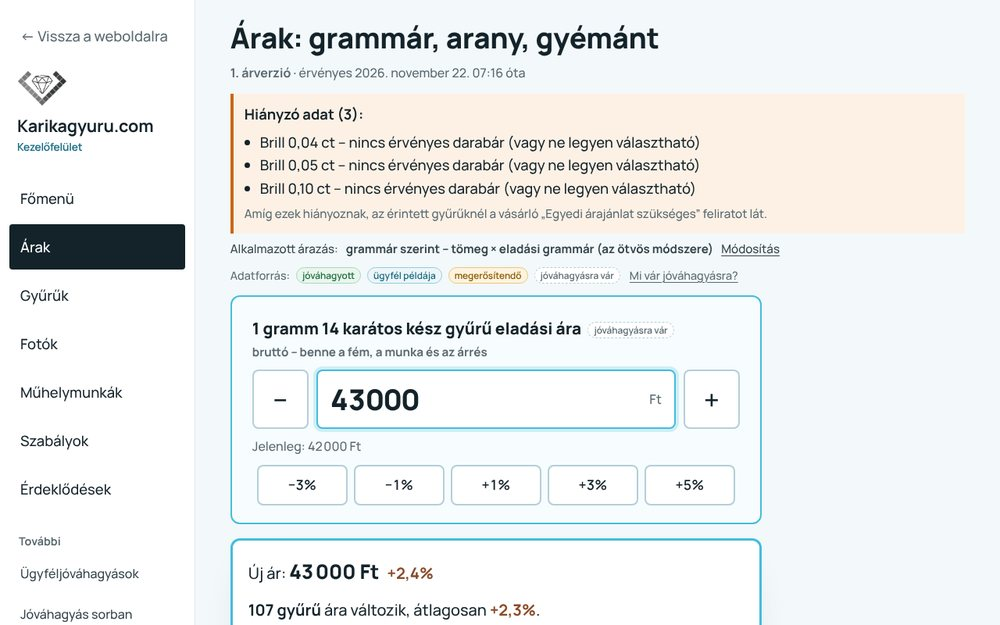
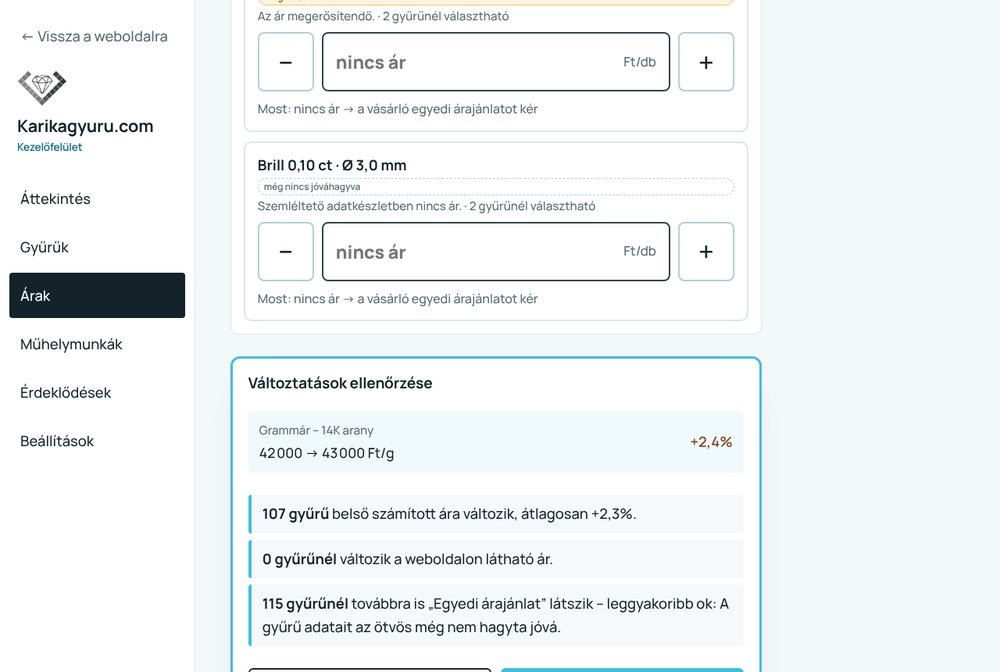
Karikagyuru V5.9/4: dokumentáció és ügyfélbemutató
- új: ADMIN_FELMERES_V5_9.md (oldalankénti felmérés), ADMIN_UTMUTATO.md (az ötvösnek), TAVOLI_BEMUTATO.md (VPS, HTTPS)
- frissítve: ELSO_ATADAS, BIZTONSAG, TELEPITES 15. pont, BEMUTATO_TELEPITES (nincs éjjeli automatikus törlés), ATADAS, README-k
- bemutato.html: az új admin szerint (az ügyféljóváhagyási oldal helyett: a kérdéseket mi kérdezzük meg), új képernyőkép

Claude-Session: https://claude.ai/code/session_01JvnLNWMeRt4DEzms3zgSZ4

diff --git a/public/latvanytervek/karikagyuru/bemutato.html b/public/latvanytervek/karikagyuru/bemutato.html
@@ -127,11 +127,11 @@ footer { padding: 26px 0 40px; color: var(--mute); font-size: 1rem; }
     <h2><span class="n">3</span>Az árak egy helyen</h2>
     <p>Az árakat az Ön módszerével számolja: <b>a gyűrű súlya × a gramm ára</b>, plusz a kövek. Önnek csak a gramm árát kell átírnia, ha változik az arany ára.</p>
     <ul class="plain">
-      <li><b>Mentés előtt</b> megmutatja, hány gyűrű ára változik, és mennyivel.</li>
-      <li><b>Minden változás megmarad.</b> Ha tévedett, egy gombbal visszaállítja az előző árakat.</li>
+      <li><b>Mentés előtt</b> megmutatja, mi változik: melyik ár, mennyiről mennyire, és hány gyűrűnél változik a weboldalon látható ár.</li>
+      <li><b>Minden változás megmarad.</b> Ha tévedett, a „Korábbi árak” résznél visszaállítja az előzőt – előtte megmutatjuk, mi változik.</li>
       <li><b>Gyűrűnként Ön hagyja jóvá</b>, hogy az adott modell adatai rendben vannak. Amíg ez nincs meg, ott a vásárló „Egyedi árajánlat”-ot lát.</li>
     </ul>
-    <figure><img src="img/bemutato/5-arkezeles.jpg" alt="A kezelőfelület árak oldala" width="1000" height="625" loading="lazy"><figcaption>A kezelőfelület „Árak” oldala. A számok itt szemléltetők.</figcaption></figure>
+    <figure><img src="img/bemutato/5-arkezeles.jpg" alt="A kezelőfelület árak oldala" width="1000" height="625" loading="lazy"><figcaption>A kezelőfelület „Árak” oldala: mentés előtt a változtatások ellenőrzése. A számok itt szemléltetők.</figcaption></figure>
   </section>
 
   <section id="egyedi">
@@ -173,14 +173,14 @@ footer { padding: 26px 0 40px; color: var(--mute); font-size: 1rem; }
 
   <section id="kerdesek" class="brk">
     <h2><span class="n">7</span>Amiben az Ön döntése kell</h2>
-    <p>Ezekről semmit nem döntöttünk el Ön helyett. A kezelőfelület <b>„Ügyféljóváhagyások”</b> oldalán mind fel van sorolva, ki is nyomtatható. A válaszát beírhatja. Magától semmi nem változik: minden módosítást utána, ellenőrizve viszünk át.</p>
+    <p>Ezekről semmit nem döntöttünk el Ön helyett. <b>Nem kell a kezelőfelületen kitöltenie őket:</b> mi kérdezzük meg Öntől, és a válaszát mi visszük át, ellenőrizve. Addig, ahol valami nincs eldöntve, a vásárló „Egyedi árajánlat”-ot lát.</p>
     <div class="qs">
       <div><h3>Megjelenés</h3><ul><li>„A” vagy „B” logóváltozat</li><li>legyen-e szlogen</li><li>tegezzük vagy magázzuk a vásárlót</li></ul></div>
       <div><h3>Szakmai adatok</h3><ul><li>14K és 18K arany gramm ára</li><li>platina, palládium – ára, kínálja-e mindenhol</li><li>titán, acél – kínálja-e</li><li>gyémántméretek és árak</li><li>gravírozás, kőfoglalás díja</li><li>méretek, szélességek határai</li></ul></div>
       <div><h3>Rendelés</h3><ul><li>előleg</li><li>fizetési módok</li><li>elkészülési idő</li><li>lemondás</li><li>jótállás</li></ul></div>
       <div><h3>Technika</h3><ul><li>tárhely, domain</li><li>melyik e-mail-címre jöjjenek a kérések</li><li>adatkezelési tájékoztató, ÁSZF</li><li>a fotók eredeti fájljai</li></ul></div>
     </div>
-    <figure><img src="img/bemutato/7-jovahagyasok.jpg" alt="Az ügyféljóváhagyások oldal" width="1000" height="625" loading="lazy"><figcaption>Az „Ügyféljóváhagyások” oldal: minden kérdés mellett ott a mostani állapot és egy hely a válasznak.</figcaption></figure>
+
   </section>
 
   <section id="rhino">

diff --git a/public/latvanytervek/karikagyuru/docs/ADMIN_FELMERES_V5_9.md b/public/latvanytervek/karikagyuru/docs/ADMIN_FELMERES_V5_9.md
@@ -1,0 +1,49 @@
+# Kezelőfelület – felmérés és átalakítás (V5.9, 2026. 11. 24.)
+
+## A régi admin (V5.8.1) oldalanként
+
+Jelmagyarázat: N = naponta, R = ritkán, S = soha (fejlesztői).
+
+| Régi oldal | Mire szolgált / mit módosított | Kell az ötvösnek? | Gyakoriság | Ismétlődés | Veszélyes véletlenül? | Érthető név? | Látszott a mentés? | Hatás a vásárlói oldalra | Becsült/jóvá nem hagyott adat | Új helye (V5.9) |
+|---|---|---|---|---|---|---|---|---|---|---|
+| Főmenü | 10 csempe, nyitott kérdések, 25 kérdéses központ, árnapló, aranyár-grafikon | igen, de egyszerűbben | N | minden más oldal tartalmát ismételte | nem | igen | – | nincs | „Tisztázandó” lista, 0/115 jóváhagyás | **Áttekintés**: 4 teendő + 3 legutóbbi érdeklődés |
+| Árak | grammár, 24K/Pt/Pd/Ti alapanyagár, gyémántok, grafikon, %-gombok | igen | N | Árszámítás, Jóváhagyásra vár | igen (minden ár) | félig („árverzió”, „referenciaár”) | szerver módban csak „folyamatban” | minden jóváhagyott ár | demo/példa jelölések | **Árak → Árak módosítása**: 4 grammár + gyémántok; a beszerzési ár és a grafikon lenyitható |
+| Gyűrűk | lista, keresés, szűrés, árlista nyomtatás/CSV | igen | N | Szabályok, Fotók | nem | igen | – | – | a listaár mellett a nem jóváhagyott belső ár „ár”-ként | **Gyűrűk → Gyűrűk listája**: weboldalon látható ár és belső számítás külön |
+| Gyűrű szerkesztése | 40+ mező egy oldalon, 3D-mezők | igen | N | Szabályok, Jóváhagyás sorban | igen (szakmai adatok) | félig | igen | jóváhagyás után | becsült tömeg, fotóról becsült kőszabály | egyszerű nézet + „Részletes gyűrűbeállítások”; 3D csak fejlesztői nézetben |
+| Fotók | képcsere rácsban, betöltés-ellenőrzés | igen | R | Gyűrű szerkesztése | nem | igen | csak toast | azonnali | – | **Gyűrűk → Fotók kezelése** + fénykép cseréje a gyűrű adatlapján |
+| Műhelymunkák | egyedi munkák fotókkal | igen | R | – | törlés megerősítéssel | igen | igen | látható munka | – | **Műhelymunkák** (változatlan) |
+| Szabályok | gyűrűnként mit állíthat a vásárló (lista) | a szerkesztőben | R | Gyűrű szerkesztése | nem | félig | – | – | jóváhagyási állapot | megszűnt külön oldalként → a gyűrű szerkesztőjében |
+| Érdeklődések | kérések, „Visszahívtam”, ár rögzítése = „elfogadva” | igen | N | – | törlés | igen | igen | – | **nem jóváhagyott belső ár rögzíthető volt ajánlatként** (gyors árszámításból) | **Érdeklődések**: 4 csoport, Felhívom / Visszahívtam / Lezárás; az ajánlati ár külön, csak jóváhagyott árból |
+| Ügyféljóváhagyások | 25 fejlesztési kérdés | nem | S | – | nem | nem (fejlesztői) | igen | nincs | – | **fejlesztői nyilvántartás**: menüből, áttekintésből és a tulajdonosi API-ból kivéve; parancssorból |
+| Jóváhagyás sorban | gyűrűnkénti szakmai jóváhagyás | igen | R | Gyűrű szerkesztése | igen | igen | igen | jóváhagyás után ár | becslések | **Gyűrűk → Adatok ellenőrzése** |
+| Árszámítás | telefonos ár, „Felírom ajánlatnak” | igen | R | – | **igen: jóváhagyatlan árat rögzített** | igen | igen | – | belső ár „Ár”-ként | **Árak → Ár kipróbálása**: látható és belső ár külön, csak jóváhagyott ár rögzíthető |
+| Felárak és munkadíjak | árszámítási mód, díjak, tömegarány, kerekítés | ritkán | R | Beállítások (kerekítés) | **igen (minden ár)** | nem („felár”, „költségalapú mód”) | toast | minden ár | demo jelölések | **Beállítások → Haladó árképzés** (magyarázatokkal) |
+| Árváltozások naplója | minden változás, visszaállítás | igen | R | Árak (verziók) | visszaállítás megerősítéssel | félig | toast | minden ár | – | **Árak → Korábbi árak**: visszaállítás előtt a pontos következmény |
+| Jóváhagyásra vár | árelemek jóváhagyása, „Élesítésre kész” gomb, nyitott kérdések | ritkán | R | Árak | jóváhagyás | nem | toast | jóváhagyott elem | mind | **Beállítások → Árelemek jóváhagyása** (élesítési gomb nélkül); a grammár jóváhagyása az Árak oldalon is |
+| Beállítások | kerekítés, árrés, nagy változás, e-mail, **Alapállapot visszaállítása** | ritkán | R | Felárak | **igen: teljes adatállapot törlése** | félig | toast | minden adat | – | **Beállítások**: csak a figyelmeztetési határ, e-mail-állapot, adattárolás; a teljes visszaállítás nem tulajdonosi művelet |
+
+## A legnagyobb problémák
+
+1. **Túl sok belépési pont:** 14 menüpont, és ugyanaz a feladat 2–3 helyen.
+2. **A háromféle ár összemosódott.** A belső számított ár „Ár”-ként jelent meg, és a gyors árszámításból jóváhagyatlan összeg rögzülhetett ajánlati árként.
+3. **Veszélyes gomb a hétköznapi beállítások között:** az „Alapállapot visszaállítása” szerver módban mindent felülírt volna. Ezt a szerver sem tiltotta.
+4. **Fejlesztői tartalom az ügyfél kezdőképernyőjén:** 25 kérdés, „Tisztázandó” lista, élesítési ellenőrzés.
+
+## Új felépítés
+
+```
+Áttekintés
+Gyűrűk        – Gyűrűk listája · Adatok ellenőrzése · Fotók kezelése · (gyűrű adatlapja: egyszerű + részletes nézet, fénykép cseréje)
+Árak          – Árak módosítása · Ár kipróbálása · Korábbi árak · Árlista (vásárlóknak / belső)
+Műhelymunkák
+Érdeklődések  – Új · Visszahívásra várnak · Már felkeresett · Lezárt
+Beállítások   – Általános · Haladó árképzés · Árelemek jóváhagyása
+```
+
+A régi címek (`#/admin/alapanyag`, `sorban`, `keplet`, `elozmenyek`, `jovahagyas`, `arszamitas`, `szabalyok`, `fotok`) az új helyükre irányítanak, de **csak a belépés ellenőrzése után** (teszt: `admin_v59_e2e.py`, 19 cím).
+
+Csak fejlesztőnek, a tulajdonosi felületen nincs:
+- 25 kérdés → `bin/fejlesztoi-dontesek.php`;
+- teljes állapot-visszaállítás → `POST /revert` csak `KG_FEJLESZTOI_VISSZAALLITAS=1`-gyel;
+- bemutató visszaállítása → `bin/demo-reset.php`;
+- 3D-mezők és a böngészős bemutató visszaállítása → helyi fejlesztői nézet (`#/admin/fejleszto`, nem biztonsági határ).

diff --git a/public/latvanytervek/karikagyuru/docs/TAVOLI_BEMUTATO.md b/public/latvanytervek/karikagyuru/docs/TAVOLI_BEMUTATO.md
@@ -1,0 +1,85 @@
+# Karikagyuru.com – távoli ügyfélteszt a DAEKON saját szerverén (V5.9)
+
+**Állapot: telepítésre kész, NINCS telepítve.** Ebben a fejlesztési munkamenetben nem volt hozzáférés a DAEKON VPS-éhez,
+ezért a távoli bemutató **nem fut online**. Az alábbi lépésekkel 20–30 perc alatt telepíthető. Minden része helyben ki van próbálva:
+- `bemutato_e2e.py`: kapu, 14 ügyfélfeladat, visszaállítás;
+- `admin_v59_e2e.py`: az új admin szerver módban;
+- `mentes_test.py`: mentés és visszaállítás.
+
+Az ötvös otthonról, a saját gépén vagy telefonján, **valódi szerveres mentéssel** próbálhatja ki: a változtatásai újratöltés után és másnap is megmaradnak.
+
+## Mi garantált
+
+| Követelmény | Megoldás |
+|---|---|
+| Külön tesztkörnyezet | Saját aldomain a DAEKON szerverén. Nem az ügyfél tárhelye, és nem más ügyfélé. |
+| Külön adatbázis | Saját, üres adatmappa (`demo-install.php` nem üres mappába nem telepít). A kapu csak „bemutató” jelölésű adatbázissal indul. |
+| HTTPS | Caddy automatikus tanúsítvánnyal. HTTPS-en a sütik Secure jelzést kapnak. |
+| Külön bemutatóbelépés és adminbelépés | Két külön, véletlen jelszó. A bemutató jelszava a kezelőfelületet nem nyitja. 5 hibás próba után 15 perc zárolás. |
+| Tartós szerveres mentés | SQLite a szerveren. Minden mentés új változat, a korábbi árak visszaállíthatók. |
+| Szemléltető árak jelölése | Az oldal tetején „Zárt bemutató – az árak szemléltető mintaadatok” sáv. |
+| Éles e-mail tiltva | A kapu minden beállítást felülírva `KG_MAIL_MODE=off`-ot állít. |
+| Keresőindexelés tiltva | `X-Robots-Tag: noindex` minden válaszon, `robots.txt` mindent tilt, jelszó nélkül semmi nem látszik. |
+| Nincs bejelentés nélküli éjszakai törlés | **Nincs automatikus visszaállítás.** Csak napi biztonsági mentés fut (az nem töröl). |
+| Az ügyfél változtatásai megmaradnak | A visszaállítás csak kézzel, előre egyeztetve fut. |
+| A fejlesztő biztonságosan visszaállíthat | `demo-reset.php` (a jelszavak maradnak). Előtte `mentes.php`, így a próbák vissza is hozhatók. |
+| A 25 belső kérdés nem látszik | A tulajdonosi admin és az API nem adja ki. Fejlesztőnek: `bin/fejlesztoi-dontesek.php lista`. |
+
+## Telepítés (Debian/Ubuntu VPS, Caddy + PHP-FPM)
+
+Előfeltétel: DNS-rekord, pl. `kg-bemutato.daekon.hu → a VPS IP-címe` (a pontos név DAEKON-döntés).
+
+```sh
+# 1. csomagok (ha még nincsenek)
+sudo apt install caddy php8.2-fpm php8.2-sqlite3 php8.2-gd
+# 2. a bemutató csomag (a repositoryban, helyben)
+bash services/karikagyuru-api/dev/demo-csomag.sh /tmp/kg-bemutato-csomag
+#    feltöltés: scp -r /tmp/kg-bemutato-csomag vps:/srv/kg-bemutato
+# 3. a VPS-en: külön felhasználó és adatmappa, a webgyökéren kívül
+sudo useradd --system --home /srv/kg-bemutato kgdemo
+sudo mkdir -p /srv/kg-bemutato/adat /srv/kg-bemutato/mentesek && sudo chown -R kgdemo: /srv/kg-bemutato && sudo chmod 700 /srv/kg-bemutato/adat /srv/kg-bemutato/mentesek
+# 4. config.php (a kapu.php mellé): data = /srv/kg-bemutato/adat, site = …/webgyoker/bemutato/site, src = /srv/kg-bemutato/karikagyuru-api/src
+# 5. telepítés – a két jelszót EGYSZER írja ki
+sudo -u kgdemo KG_DATA=/srv/kg-bemutato/adat php /srv/kg-bemutato/karikagyuru-api/bin/demo-install.php
+```
+
+PHP-FPM pool (`/etc/php/8.2/fpm/pool.d/kgdemo.conf`): `user = kgdemo`, `listen = /run/php/kgdemo.sock`, `listen.owner = caddy`.
+
+Caddyfile:
+```
+kg-bemutato.daekon.hu {
+	root * /srv/kg-bemutato/webgyoker/bemutato
+	header X-Robots-Tag "noindex, nofollow, noarchive"
+	# minden kérés a kapun át (a kapu szolgálja ki a weboldalt és az API-t, jelszó után)
+	rewrite * /kapu.php
+	php_fastcgi unix//run/php/kgdemo.sock
+}
+```
+`sudo systemctl reload php8.2-fpm caddy`
+
+> A Caddy- és PHP-FPM-beállítás a VPS-en még nincs kipróbálva (helyben `php -S … kapu.php` fut). Az első telepítéskor az „Átadás előtti próba” öt pontja kötelező.
+
+Napi biztonsági mentés (törlés nélkül; crontab -u kgdemo):
+```
+20 3 * * * KG_DATA=/srv/kg-bemutato/adat php /srv/kg-bemutato/karikagyuru-api/bin/mentes.php /srv/kg-bemutato/mentesek
+```
+
+## Átadás előtti próba (5 perc)
+
+1. `https://kg-bemutato.daekon.hu/` jelszó nélkül → jelszókérő; `…/robots.txt` → `Disallow: /`; a válaszfejlécben `X-Robots-Tag: noindex`.
+2. Bemutató jelszóval be → katalógus, felül a „Zárt bemutató” sáv.
+3. `#/admin` → külön admin jelszó. Grammár átírása → „Az árak sikeresen mentve.” → újratöltés után is megvan.
+4. Ajánlatkérés képpel → az adminban megjelenik; levél nem megy ki.
+5. `mentes.php` lefut, `mentes-ellenorzes.php` rendben.
+
+## Mit kap az ötvös
+
+- A címet és a **bemutató jelszavát** (külön üzenetben).
+- Az **admin jelszót** (külön üzenetben vagy telefonon).
+- Egy mondatot: „A kezelőfelületen próbáljon ki bármit – semmi nem kerül a valódi weboldalra, és nem vész el: minden mentés megmarad.”
+
+## Visszaállítás és eltávolítás (fejlesztő)
+
+- Bemutató visszaállítása (előtte szólj az ügyfélnek, és ments):
+  `mentes.php …` majd `sudo -u kgdemo KG_DATA=/srv/kg-bemutato/adat php …/bin/demo-reset.php`
+- Eltávolítás: a Caddy-blokk, a pool, a cron és a `/srv/kg-bemutato` törlése.

diff --git a/public/latvanytervek/README.md b/public/latvanytervek/README.md
@@ -10,7 +10,7 @@
 
 | Mappa | Ügyfél | Megjegyzés |
 |---|---|---|
-| `karikagyuru/` | Karikagyuru.com — karikagyűrűk, leánykérő gyűrűk, egyedi készítés, Budapest VIII. (Bláthy Ottó u. 4–8.) | **V5.8 (2026.11.22.)** – 115 gyűrűs katalógus, gyűrűnként jóváhagyott konfigurátor, központi árkezelés (grammár, árverziók, visszaállítás), saját ötlet referenciaképpel, műhelymunkák, kezelőfelület ügyféljóváhagyási központtal, PHP + SQLite szerver mód, zárt laptopos bemutató, két arculati változat (`arculat.html`), ügyfélbemutató (`bemutato.html`). Nem webshop. **Nincs élesítve, ügyfél-jóváhagyás nincs** – valós állapot: `karikagyuru/docs/ELSO_ATADAS.md`, napló: `karikagyuru/ATADAS.md`. |
+| `karikagyuru/` | Karikagyuru.com — karikagyűrűk, leánykérő gyűrűk, egyedi készítés, Budapest VIII. (Bláthy Ottó u. 4–8.) | **V5.9 (2026.11.24.)** – egyszerűsített, 6 menüpontos kezelőfelület; 115 gyűrűs katalógus, gyűrűnként jóváhagyott konfigurátor, központi árkezelés (grammár, árverziók, visszaállítás), saját ötlet referenciaképpel, műhelymunkák, kezelőfelület ügyféljóváhagyási központtal, PHP + SQLite szerver mód, zárt laptopos bemutató, két arculati változat (`arculat.html`), ügyfélbemutató (`bemutato.html`). Nem webshop. **Nincs élesítve, ügyfél-jóváhagyás nincs** – valós állapot: `karikagyuru/docs/ELSO_ATADAS.md`, napló: `karikagyuru/ATADAS.md`. |
 | `ecodiesel/` | Diesel Motor Javítás — Ecodiesel Kft. (Szatmári Lajos), dízelmotor-javítás, országos mobil szerviz | **2026.11.10.** A `daekon-ship/ecodiesel-latyvanyterv` repó (dieselmotorjavitas.hu) másolata. Új logó: hatszög + dugattyú, lime #B7F04A sötét alapon (`assets/img/logo-mark.svg`, faviconok). Új „Javított motorok” szekció (18 márka + JaMZ-240 kiemelés), 2. telefonszám, cégadatok. Galéria (`#munkaink`) kész, de rejtett, amíg az ügyfél saját fotói nincsenek bent (`js/main.js` → `GALLERY`). A többi kép még Wikimedia-referencia, saját fotóra cserélendő. |
 | `limit-pizza/` | Limit Pizza Házhozszállítás (Magyar Alexandra) — pizzaházhozszállítás, Bük és környéke | **4. kör (2026.11.08.), lásd `limit-pizza/ATADAS.md` (végső auditjelentés).** Blokknyomtatás kivezetve, helyette digitális „Rendelés részletei”; javított Facebook-link; 56 automata teszt. iPades konyhai admin: ismétlődő riasztás, elfogadás idővel, szüneteltetés, várható idő, elfogyott pizza/feltét; közös demó-állapot (`js/demo-store.js`), Korábban: online rendelés demó, kivágott, kerekre igazított pizzafotók koncentrikus gyűrűvel, Facebook/Instagram beépítve. Az ügyfél saját logója, étlapja és arculata marad (nem olaszos). Fekete–fehér–#FF3131, Archivo kondenzált, helyben; Motion. Mind a 19 pizza, 6 üdítő, feltétárak, díjzónák a `data/menu.json`-ban; konfigurátor, kosár-demó („valódi rendelés nem történt”), eredeti étlap nézet. Csak hívás. 3 saját fotó. Egyeztetendő: fotó-párosítás, alapcsere felára, digitális SZÉP, közösségi linkek. |
 | `tisztapont/` | TisztaPont-Hungary Kft. — takarítás (lakás, iroda, szálláshely, építkezés utáni, rendezvény, ipari) | **4. kör (2026.11.08.): élesnek ható megjelenés (jelölések kapcsolóval ki), e-mailben elküldhető időpontigény, React Bits-mintájú Motion interakciós réteg (`js/hatasok.js`); lásd `tisztapont/ATADAS.md`.** Wolt-szekció + „Három út” (időpontigény / Wolt / telefon), 12 közvetlen Wolt-link, taxitakarítás mint 7. szolgáltatás. „Pontrács” irány: fehér–jégkék, a logó tengerészkékje, pontokból és számozott sorokból álló rend; a nyitófotó egy pontból tárul fel (Motion). Hanken Grotesk + IBM Plex Mono, helyben. Logó az ügyfél grafikáiból vektorizálva (`arculat/`), favicon-készlet. Csak az ügyfél 5 saját fotója. 5 lépéses időpontkérő demó, adatküldés nélkül (`js/foglalas-adapter.js`). Központi adatok: `_forras/adatok.json` → `python3 _forras/epites.py`. Referenciaszalag: az ügyfél által megadott nevek, logó nélkül, jóváhagyási állapotokkal (`--eles` csak a közzétehetőket építi be). CSP-vel tiltott adatküldés; tesztcsomag: `_forras/teszt.py` (103 ellenőrzés). |

diff --git a/public/latvanytervek/karikagyuru/ATADAS.md b/public/latvanytervek/karikagyuru/ATADAS.md
@@ -608,3 +608,41 @@ valódi tárhelyen semmi nem futott, és ügyféljóváhagyás nincs.
   - kivettük az igazolatlan „a legtöbb pár telefonon nézelődik” állítást;
   - a PDF újragenerálva.
 - **Dokumentáció:** új `docs/MENTES_ES_VISSZAALLITAS.md`; frissítve: `TELEPITES.md` 5. pont, `BIZTONSAG.md`, `ELSO_ATADAS.md`, API `README.md`.
+
+## V5.9 – teljes admin-átalakítás az ötvösnek (2026. november 24.)
+
+Kiinduló állapot visszaállíthatóan megjelölve: `git tag kg-v5.8.1-kiindulo` (7a984a5). A felmérés oldalanként: `docs/ADMIN_FELMERES_V5_9.md`; rövid útmutató: `docs/ADMIN_UTMUTATO.md`.
+
+- **Menü:** 14 helyett 6 főmenü (Áttekintés, Gyűrűk, Árak, Műhelymunkák, Érdeklődések, Beállítások); a többi fülként a megfelelő helyen. A régi címek átirányítanak, csak a belépés után. Mobilon „Menü” gomb (Escape-pel zárul).
+- **Áttekintés:**
+  - „Jó napot kívánok!”, négy teendő, legfeljebb 3 legutóbbi érdeklődés, „További beállítások”;
+  - eltűnt a 25 kérdés, a 115-ös jóváhagyási kényszer, a fejlesztői lista, a grafikon és az élesítési lista;
+  - mentési hibát kiír.
+- **Árak:**
+  - fő mezők: 14K/18K/Pt/Pd grammár és gyémántdarabár; titánnak nincs grammár;
+  - „Változtatások ellenőrzése” a valós motorból: melyik ár, előtte → utána, belső és weboldalon látható változás, hol marad egyedi ajánlat;
+  - szerver módban „Az árak sikeresen mentve.” csak visszaigazolás után; hibánál „Az árak NEM lettek mentve”;
+  - a beszerzési ár és a grafikon lenyitható;
+  - korábbi árak visszaállítása előtt a pontos következmény.
+- **Háromféle ár:** belső számított (nem végleges) · jóváhagyott · a weboldalon látható – külön kiírva a listában, a szerkesztőben, az ár kipróbálásánál és az érdeklődéseknél. Jóváhagyatlan belső ár nem rögzíthető ajánlati árként (V5.8-ig az „Árszámítás → Felírom ajánlatnak” rögzítette).
+- **Árlista:** vásárlói (csak jóváhagyott, publikálható ár, máshol „Egyedi árajánlat”, rejtett gyűrű nélkül) és belső kalkuláció („Belső használatra – nem végleges árajánlat”, nyomtatásban minden oldalon).
+- **Gyűrűszerkesztő:**
+  - egyszerű nézet: cikkszám, név, fénykép, anyagok, színek, méretek, gyémántok, ár típusa, láthatóság;
+  - „Részletes gyűrűbeállítások”: tömeg, szélesség, vastagság, kőszabály, korlátozások, minimumár, számítás;
+  - a 3D-mezők csak fejlesztői nézetben;
+  - jóváhagyás érthetően, tételesen, következménnyel.
+- **Fénykép cseréje a gyűrű adatlapján:** típus- és méret-ellenőrzés (JPG/PNG/WebP, 8 MB), előnézet a régi mellett, feltöltés, a régi kép a sikeres mentésig marad.
+- **Érdeklődések:**
+  - négy csoport: új, visszahívásra vár, felkeresett, lezárt;
+  - a „Felhívom” csak tárcsáz és „visszahívásra vár”-ra tesz;
+  - „Visszahívtam”, „Lezárás”;
+  - az ajánlati ár rögzítése nem változtat állapotot (új szerveroldali állapot: `hivando`).
+- **Beállítások:** a teljes „Alapállapot visszaállítása” nem tulajdonosi művelet (helyi bemutatóban csak fejlesztői nézetben); haladó árképzés és árelemek jóváhagyása külön fülön, magyarázatokkal.
+- **Szerver:**
+  - a tulajdonosi admin API nem adja ki a fejlesztői nyilvántartást, és a mentés nem írja felül (CLI: `bin/fejlesztoi-dontesek.php`);
+  - a romboló mentést elutasítja;
+  - `POST /revert` csak `KG_FEJLESZTOI_VISSZAALLITAS=1`-gyel.
+- **Távoli ügyfélteszt:** `docs/TAVOLI_BEMUTATO.md` (VPS, Caddy, HTTPS, külön adat, nincs automatikus éjjeli törlés) – telepítésre kész, nincs telepítve. A bemutató-csomag a mentő- és fejlesztői szkripteket is tartalmazza.
+- **Tesztek:**
+  - új: `tests/v59.py` (68), `services/.../tests/admin_v59_e2e.py` (17);
+  - frissítve az új felépítéshez: e2e, v3, v4, v51, v53, v56b, v58, api_test, mentes_test, server_mode_e2e, demo_e2e, bemutato_e2e.

diff --git a/services/karikagyuru-api/README.md b/services/karikagyuru-api/README.md
@@ -62,7 +62,7 @@ KG_DATA=/tmp/kg-adat php -S 127.0.0.1:8792 dev/router.php
 ## Teszt
 
 ```sh
-python3 tests/api_test.py              # 101 végpont-ellenőrzés (köztük a nyilvános nézet szivárgásvizsgálata, V5.8: ügyféldöntések), saját ideiglenes adatmappával
+python3 tests/api_test.py              # 112 végpont-ellenőrzés (nyilvános nézet szivárgásvizsgálata; V5.9: fejlesztői adat elzárása, romboló mentés tiltása, fejlesztői visszaállítás), saját ideiglenes adatmappával
 python3 tests/server_mode_e2e.py       # 32 böngészős ellenőrzés: oldal + API együtt (referenciaképes érdeklődéssel)
 python3 tests/mail_test.py             # 24 ellenőrzés: e-mail-értesítés helyi SMTP-álszerverrel (valódi levél nem megy ki)
 python3 tests/server_failures_e2e.py   # 17 ellenőrzés: API-kiesés, sikertelen mentés, lejárt belépés, sikertelen érdeklődés
@@ -71,7 +71,8 @@ python3 tests/demo_e2e.py              # 18 böngészős ellenőrzés: a nem él
 python3 tests/demo_kapu_test.py        # 49 ellenőrzés: jelszóval védett bemutató (kapu, noindex, e-mail tiltás, külön admin, visszaállítás, éles adat védelme)
 python3 tests/bemutato_e2e.py          # 65 böngészős ellenőrzés: a bemutató végig a kapun át, 360/390/430 px + admin (V5.8: árverzió-visszaállítás, új műhelymunka fotóval, ügyféljóváhagyási központ)
 python3 tests/foto_test.py             # 16 ellenőrzés: termékfotó-ellenőrző és -letöltő eszköz helyi álszerverrel
-python3 tests/mentes_test.py           # 85 ellenőrzés (rootként, tmpfs-sel): mentés, teljes visszaállítás és újraindítás, 13 valóban előidézett hibaeset, párhuzamos írás, megőrzés
+python3 tests/mentes_test.py           # 87 ellenőrzés (rootként, tmpfs-sel): mentés, teljes visszaállítás és újraindítás, 13 valóban előidézett hibaeset, párhuzamos írás, megőrzés
+python3 tests/admin_v59_e2e.py         # 17 ellenőrzés: V5.9 admin szerver módban (régi címek belépés nélkül, valós mentés-visszaigazolás, mentési hiba, fénykép, romboló mentés tiltása)
 ```
 
 `api_test.py`: telepítés, jogosultság, CSRF, mentés/ütközés/visszaállítás, hibás adatok elutasítása,
@@ -121,6 +122,15 @@ Részletes ellenőrzőlista: `public/latvanytervek/karikagyuru/docs/TELEPITES.md
 4. `index.html`: `<meta name="kg-api" content="api/">`.
 5. HTTPS kötelező (a süti csak így kapja meg a Secure jelzőt).
 6. Kipróbálás a tárhelyen: belépés, egy ármódosítás, egy érdeklődés, egy kép – és visszaállítás.
+
+## Fejlesztői műveletek (V5.9)
+
+| Parancs / beállítás | Feladat |
+|---|---|
+| `KG_DATA=… php bin/fejlesztoi-dontesek.php lista \| export \| beallit <tétel> <nyitott\|valasz\|atvezetve> "<válasz>"` | a 25 tisztázandó kérdés (az admin API nem adja ki) |
+| `KG_FEJLESZTOI_VISSZAALLITAS=1` | csak ezzel él a `POST /revert` (teljes változat-visszaállítás); élesben ne legyen bekapcsolva |
+| `PUT /state` | V5.9: elutasítja, ha gyűrű eltűnne, egyszerre több műhelymunka törlődne, vagy a korábbi árak eltűnnének (422) |
+| `POST /inquiry-status` | állapotok: `uj`, `hivando` (visszahívásra vár), `visszahivva`, `elfogadva`, `lezarva` |
 
 ## Biztonsági mentés és visszaállítás (V5.8.1)
 

diff --git a/public/latvanytervek/karikagyuru/docs/ELSO_ATADAS.md b/public/latvanytervek/karikagyuru/docs/ELSO_ATADAS.md
@@ -1,4 +1,4 @@
-# Karikagyuru.com – első átadás: valós állapot (V5.8.1, 2026. 11. 22.)
+# Karikagyuru.com – első átadás: valós állapot (V5.9, 2026. 11. 24.)
 
 Ez a dokumentum funkciónként mutatja, **meddig jutott** az egyes rész. Kétféle dolgot választ el: mi tartozik
 az első (kb. 200 000 Ft-os) szakaszhoz, és mi későbbi, külön fejlesztés. A korábbi változat még azt írta,
@@ -34,8 +34,10 @@ hagyott jóvá. Az éles karikagyuru.com-hoz nem nyúltunk.
 | Ajánlatkérés, időpontkérés, saját ötlet | ✔ | ✔ | ✔ | ✔* | – | – | – | *Pages-en az üzenet NEM jut el az ötvöshöz – ezt az űrlap előtte és utána is kiírja |
 | Saját ötlethez csatolt referenciakép feltöltése (védett, csak az adminban látszik) | ✔ | ✔ | ✔ | – | – | – | – | Pages-en nincs szerver, ott a kép nem töltődik fel |
 | E-mail-értesítés új érdeklődésről | ✔ | ✔ | ✔** | – | – | – | – | **csak „fájlba írás” módban; valódi levél nem ment ki (nincs jóváhagyott cím és SMTP) |
-| Kezelőfelület: árak, gyűrűk, fotók, műhelymunkák, szabályok, érdeklődések | ✔ | ✔ | ✔ | ✔ | – | – | – | Pages-en jelszó nélkül, csak a böngészőben ment; szerveren belépéssel, változatokkal |
-| Ügyféljóváhagyási központ (V5.8) | ✔ | ✔ | ✔ | ✔ | – | – | – | 25 kérdés, mind nyitott; a válasz semmit nem ír át magától |
+| Kezelőfelület (V5.9: 6 főmenü – Áttekintés, Gyűrűk, Árak, Műhelymunkák, Érdeklődések, Beállítások) | ✔ | ✔ | ✔ | ✔ | – | – | – | Pages-en jelszó nélkül, csak a böngészőben ment; szerveren belépéssel, változatokkal. Útmutató: `ADMIN_UTMUTATO.md`, felmérés: `ADMIN_FELMERES_V5_9.md` |
+| Árlista: vásárlói (csak jóváhagyott ár) és belső kalkuláció („nem végleges” jelöléssel) | ✔ | ✔ | ✔ | ✔ | – | – | – | V5.9 |
+| Fejlesztői nyilvántartás – 25 tisztázandó kérdés (V5.8 központ) | ✔ | ✔ | ✔ | n. a. | – | – | – | V5.9: nem része a tulajdonosi adminnak; szerveren csak parancssorból (`bin/fejlesztoi-dontesek.php`), az admin API nem adja ki |
+| Távoli ügyfélteszt a DAEKON szerverén (HTTPS, jelszó, tartós mentés) | ✔ | ✔ | ✔ | n. a. | – | – | – | telepítésre kész csomag + leírás (`TAVOLI_BEMUTATO.md`), **nincs telepítve** – nem volt szerver-hozzáférés |
 | Bejelentkezés, CSRF, zárolás 5 hibás próbálkozás után | ✔ | ✔ | ✔ | n. a. | – | – | – | |
 | Zárt, jelszavas bemutató a laptopon (`bemutato.sh`) | ✔ | ✔ | ✔ | n. a. | – | – | – | mintaadatokkal, levélküldés nélkül; egy paranccsal visszaállítható |
 | Biztonsági mentés és visszaállítás (`bin/mentes.php`, `bin/visszaallitas.php`) | ✔ | ✔ | ✔ | n. a. | – | – | – | V5.8.1: konzisztens, ellenőrzött; teljes visszaállítási próba helyben sikeres; a tárhelyen egyszer végig kell csinálni (`MENTES_ES_VISSZAALLITAS.md`) |

diff --git a/public/latvanytervek/karikagyuru/docs/BIZTONSAG.md b/public/latvanytervek/karikagyuru/docs/BIZTONSAG.md
@@ -1,4 +1,4 @@
-# Karikagyuru.com – biztonsági és adatkezelési áttekintés (V5.8.1, 2026. 11. 22.)
+# Karikagyuru.com – biztonsági és adatkezelési áttekintés (V5.9, 2026. 11. 24.)
 
 A kódban ellenőrzött állapot. Valódi tárhelyen még semmi nem futott, ezért élesítés előtt a tárhelyen újra ki
 kell próbálni (`TELEPITES.md`). Ez az áttekintés nem jogi vélemény.
@@ -7,7 +7,9 @@ kell próbálni (`TELEPITES.md`). Ez az áttekintés nem jogi vélemény.
 |---|---|---|---|
 | Admin belépés | jelszó `password_hash`-sel; munkamenet-süti: HttpOnly, SameSite=Strict, HTTPS-en Secure; böngésző bezárásakor lejár | api_test, server_failures_e2e (lejárt belépés) | erős jelszó az ötvösnek, HTTPS kötelező |
 | Próbálkozások | 5 hibás belépés / 15 perc → zárolás; a gépek IP-címét csak kivonatként (hash) tároljuk | api_test, demo_kapu_test | – |
-| Jogosultság | minden módosító és bizalmas végpont (mentés, árverziók, érdeklődések, referenciaképek, fotófeltöltés, levélbeállítás) csak belépve | api_test | – |
+| Jogosultság | minden módosító és bizalmas végpont (mentés, árverziók, érdeklődések, referenciaképek, fotófeltöltés, levélbeállítás) csak belépve; a régi admin címek a belépés-ellenőrzés után irányítanak át | api_test, admin_v59_e2e (19 cím) | – |
+| Fejlesztői adat elkülönítése (V5.9) | a 25 kérdés válaszai (`clientDecisions`) a tulajdonosi admin API-nak sem mennek ki; a tulajdonosi mentés nem írhatja felül és nem törölheti; írás/olvasás csak parancssorból (`bin/fejlesztoi-dontesek.php`). Külön szerepkör nincs: a határ a szerver shell-hozzáférése | api_test, admin_v59_e2e, mentes_test | – |
+| Romboló mentés tiltása (V5.9) | a szerver elutasítja azt a mentést, amely meglévő gyűrűt törölne, egyszerre több műhelymunkát törölne, vagy eltüntetné a korábbi árakat (előzményeket) – így a „teljes alapállapot” sem a felületről, sem közvetlen API-hívással nem indítható. Teljes változat-visszaállítás (`POST /revert`) csak `KG_FEJLESZTOI_VISSZAALLITAS=1`-gyel | api_test, admin_v59_e2e | – |
 | CSRF | módosító kéréshez `X-CSRF-Token`, időzítés-biztos összevetéssel | api_test | – |
 | Adatbázis | SQLite a webgyökéren kívül (`KG_DATA`), előkészített lekérdezések | api_test | próba: a `kg.sqlite` URL-ről 404 |
 | Nyilvános adat | a látogató csak jóváhagyott árat, látható gyűrűt, látható műhelymunkát kap; a régi listaár, a belső felárak, a nyitott kérdések és az ügyféldöntések nem mennek ki | api_test (V5.8: ügyféldöntések is) | – |

diff --git a/public/latvanytervek/karikagyuru/docs/BEMUTATO_TELEPITES.md b/public/latvanytervek/karikagyuru/docs/BEMUTATO_TELEPITES.md
@@ -81,7 +81,7 @@ Az **Ügyféljóváhagyások** oldalon (Kezelőfelület → További) a kérdés
 | Nem indexelhető | `X-Robots-Tag: noindex, nofollow, noarchive` minden válaszon, `<meta name="robots">`, a `robots.txt` mindent tilt, és jelszó nélkül semmi nem látszik. |
 | Jelszóval védett hozzáférés | Az egész oldal (weboldal, képek, JavaScript, API) a bemutató jelszava mögött van. Aláírt, 12 órás, HttpOnly süti; 5 hibás próbálkozás után 15 perc zárolás. |
 | Az admin külön védett | A kezelőfelülethez külön admin jelszó kell (a bemutató jelszava nem nyitja, és fordítva). Saját munkamenet, CSRF-jel, zárolás. |
-| Egyszerű visszaállítás | `KG_DATA=… php bin/demo-reset.php`: kiinduló mintaadat, érdeklődések és képek törölve, a jelszavak maradnak. Éjjeli cronra is tehető. |
+| Egyszerű visszaállítás | `KG_DATA=… php bin/demo-reset.php`: kiinduló mintaadat, érdeklődések és képek törölve, a jelszavak maradnak. **Csak kézzel, az ügyfélnek előre szólva** (V5.9: automatikus éjjeli törlés nincs – az ügyfél próbái megmaradnak). |
 | A demó nem kerül észrevétlenül élesbe | Éles módban „demo” jelölésű adat nem menthető (422). Bemutató módban minden mentés „demo” jelölést kap. Az élesítési ellenőrzés demó adattal tilt. A demo-fájlok (`demo/`, `bin/demo-*`, `dev/`) nem részei az éles feltöltésnek (TELEPITES.md 13. pont). |
 
 A teszt kiszolgálja a weboldalt, de a `tests/`, `docs/`, `.md`, `.py`, `.php` fájlokat nem.
@@ -114,9 +114,11 @@ A teszt kiszolgálja a weboldalt, de a `tests/`, `docs/`, `.md`, `.py`, `.php` f
    - egy érdeklődés képpel beérkezik;
    - nem megy ki levél;
    - `demo-reset.php` után minden visszaáll.
-7. Opcionális éjjeli visszaállítás:
+7. **Nincs automatikus visszaállítás** (V5.9): az ötvös otthoni próbái megmaradnak. Visszaállítás csak kézzel, előre egyeztetve.
+   Napi biztonsági mentés viszont legyen (törlés nélkül):
    ```
-   0 4 * * * KG_DATA=/home/FELHASZNALO/kg-bemutato-adat php /home/FELHASZNALO/karikagyuru-api/bin/demo-reset.php
+   20 3 * * * KG_DATA=/home/FELHASZNALO/kg-bemutato-adat php /home/FELHASZNALO/karikagyuru-api/bin/mentes.php /home/FELHASZNALO/kg-bemutato-mentesek
    ```
+   VPS-re (HTTPS-sel) a pontos lépések: **`TAVOLI_BEMUTATO.md`**.
 
 **Eltávolítás:** a `bemutato/` mappa, a `karikagyuru-api/` és az adatmappa törlése. Más nem marad utána.

diff --git a/public/latvanytervek/karikagyuru/docs/ADMIN_UTMUTATO.md b/public/latvanytervek/karikagyuru/docs/ADMIN_UTMUTATO.md
@@ -1,0 +1,17 @@
+# Kezelőfelület – rövid útmutató az ötvösnek
+
+Belépés: a weboldal címe után írja be: `#/admin` (pl. `…/#/admin`), és mentse el könyvjelzőként. A jelszót külön kapja.
+
+| Mit szeretne? | Lépések |
+|---|---|
+| **Árat módosítani** | Árak → írja át a számot → nézze meg a „Változtatások ellenőrzése” részt → **Árak mentése** → „Az árak sikeresen mentve.” |
+| **Gyűrűt szerkeszteni** | Gyűrűk → keressen a cikkszámra → Megnyitás → módosítás → **Mentés** |
+| **Fényképet cserélni** | Gyűrűk → a gyűrű megnyitása → **Fénykép cseréje** → nézze meg az előnézetet → **Új fénykép mentése** |
+| **Érdeklődőt visszahívni** | Érdeklődések → **Felhívom** (tárcsáz) → beszélgetés után **Visszahívtam** |
+| **Egyedi munkát bemutatni** | Műhelymunkák → **+ Új műhelymunka** → cím, leírás → **Fotók hozzáadása** → **Mentés** |
+
+**Jó tudni**
+- Ha tévedett egy árral: Árak → **Korábbi árak** → visszaállítás. Előtte megmutatjuk, mi változik.
+- Amíg egy gyűrű adatai nincsenek jóváhagyva, a vásárló „Egyedi árajánlat”-ot lát. Ez nem hiba. A gyűrű adatlapján látszik, mi hiányzik.
+- A „belső számított ár” csak tájékoztató, nem végleges: a vásárló nem látja.
+- Ha valami nem mentődött el, piros üzenet jelzi. Ilyenkor semmi nem változott.

diff --git a/public/latvanytervek/karikagyuru/docs/TELEPITES.md b/public/latvanytervek/karikagyuru/docs/TELEPITES.md
@@ -190,3 +190,13 @@ A fejlesztői és bemutató adatkészlet a `services/karikagyuru-api/dev/demo-da
 - A beírt válasz **semmit nem ír át** (árat, gyűrűszabályt, jogi szöveget). Élesítés előtt minden tételnél nézzük meg,
   hogy „Átvezetve”-e, és ha igen, valóban át van-e vezetve.
 - Az egyes funkciók valós állapota (megírva → … → élesítve): `ELSO_ATADAS.md`.
+
+## 15. V5.9 – egyszerűsített kezelőfelület, fejlesztői műveletek
+
+- A tulajdonosi kezelőfelület 6 főmenüből áll; a régi címek átirányítanak (belépés után). Útmutató az ötvösnek: `ADMIN_UTMUTATO.md`.
+- **Fejlesztői műveletek csak a szerveren, parancssorból:**
+  - a 25 kérdés: `KG_DATA=… php kg-app/bin/fejlesztoi-dontesek.php lista | export | beallit <tétel> <állapot> "<válasz>"`;
+  - teljes változat-visszaállítás: a `POST /revert` csak `KG_FEJLESZTOI_VISSZAALLITAS=1` környezeti változóval él. **Élesben ne legyen bekapcsolva.**
+- A tulajdonos az egyes árváltozásokat az „Árak → Korábbi árak” oldalon állíthatja vissza (új mentésként, naplózva).
+- A szerver elutasítja a romboló mentést (gyűrűk eltűnése, előzmények törlése) – lásd `BIZTONSAG.md`.
+- Távoli ügyfélteszt a DAEKON szerverén: `TAVOLI_BEMUTATO.md`.
